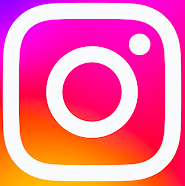
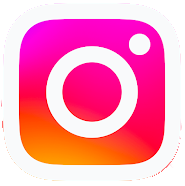
up1

Changed region(s): [[0.0, 0.0, 1.0, 1.0]]

diff --git a/links/index.html b/links/index.html
@@ -15,17 +15,20 @@
     </style>
     <div class="box">
         <div class="container">
-            <img id="logo" src="/links/assets/img/logo-inicio.jpg" alt="">
+            <img id="logo" src="/links/assets/img/logo.png" alt="">
             <h1> Oliver Net </h1>
             <h2>A sua internet móvel ilimitada</h2>
             <h3>&#9990; (79) 9 9690-7433</h3>
+            <div class="button-wpp">
+                <a href="https://wa.me/message/LFQ65RMEMPTSM1"><button><h2>WhatsApp</h2><img src="/links/assets/img/icon-whatapp.png" alt=""></button></a>
+            </div>
             <div class="button">
-                <a href="https://olivernetios.github.io/index.html"><button><img src="/links/assets/img/logo.png" alt=""><h2>OliverNet</h2></button></a>
-                <a href="http://www.youtube.com/@Olivernet"><button><img src="/links/assets/img/vecteezy_youtube-icon-ios-youtube-social-media-logo-on-white_13901818.jpg" alt=""><h2>YouTube</h2></button></a>
-                <a href="https://wa.me/message/LFQ65RMEMPTSM1"><button><img src="/links/assets/img/icon-whatapp.png" alt=""><h2>WhatsApp</h2></button></a>
-                <a href="instagram.com/oliver_nett"><button><img src="/links/assets/img/icon-instagram.png" alt=""><h2>Instagram</h2></button></a>
-                <a href="https://tiktok.com/@vip_oliveira"><button><img src="/links/assets/img/icon-tiktok.png" alt=""><h2>TikTok</h2></button></a>
-                <a href="wa.me/5517996379953"><button><img src="/links/assets/img/icon-iptv.png" alt=""><h2>IpTv</h2></button></a>
+                <a href="https://olivernetios.github.io/index.html"><button><img src="/links/assets/img/logo-inicio.png" alt=""></button></a>
+                <a href="http://www.youtube.com/@Olivernet"><button><img src="/links/assets/img/vecteezy_youtube-icon-ios-youtube-social-media-logo-on-white_13901818.jpg" alt=""></button></a>
+                
+                <a href="instagram.com/oliver_nett"><button><img src="/links/assets/img/icon-instagram.png" alt=""></button></a>
+                <a href="https://tiktok.com/@vip_oliveira"><button><img src="/links/assets/img/icon-tiktok.png" alt=""></button></a>
+                <a href="wa.me/5517996379953"><button><img src="/links/assets/img/icon-iptv.png" alt=""></button></a>
             </div>
         </div>
     </div>

diff --git a/links/assets/css/style.css b/links/assets/css/style.css
@@ -31,7 +31,6 @@ body {
 #logo {
     width: 45%;
     border: none;
-    border-radius: 100%;
     margin-bottom: -4%;
     transition: 4s;
 }
@@ -52,7 +51,6 @@ h3 {
 
 .button {
     display: flex;
-    flex-direction: column;
     margin-top: 20%;
 }
 
@@ -68,25 +66,49 @@ button {
 }
 
 .button img {
-    width: 40px;
+    width: 70px;
     border: none;
     border-radius: 13px;
 }
-
-.button button {
-    width: 600px;
-    height: 70px;
-    background-color: rgb(255, 136, 0);
+.button-wpp img {
+    width: 70px;
+    border: none;
+    background-color: transparent;
+    display: flex;
+    position: 15px;
+}
+.button-wpp  button {
+    cursor: pointer;
+    display: flex;
+    align-items: center;
+    justify-content: space-between;
+    padding-right: 30px;
+    width: 200px;
+    height: 40px;
+    background-color: black;
     border: none;
     border-radius: 30px;
 }
-
+.button button {
+    cursor: pointer;
+    display: flex;
+    border: none;
+    background-color: transparent;
+    margin-left: 20px;
+}
 .button h2 {
+    color: aliceblue;
+    font-size: 170%;
+}
+.button-wpp h2 {
     color: aliceblue;
     font-size: 170%;
 }
 
 .button a {
+    text-decoration: none;
+}
+.button-wpp a {
     text-decoration: none;
 }
 
@@ -96,15 +118,6 @@ button {
         padding-right: 1%;
     }
 
-    .box {
-        margin-left: 5%;
-        margin-right: 5%;
-        padding-left: 5%;
-        padding-right: 5%;
-        padding-top: 25%;
-        padding-bottom: 8%;
-    }
-
     .container h1 {
         font-size: 250%;
     }
@@ -112,8 +125,5 @@ button {
     .container h2 {
         font-size: 120%;
     }
-
-    .button button {
-        width: 300px;
-    }
+   
 }
